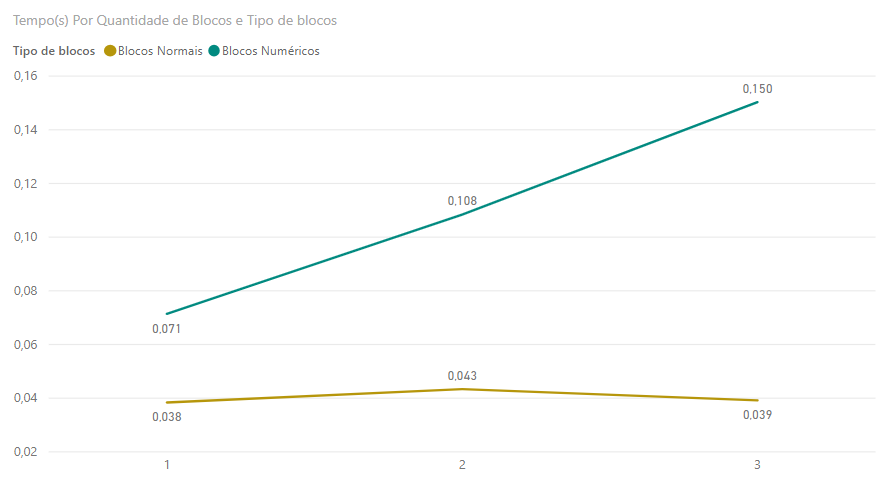
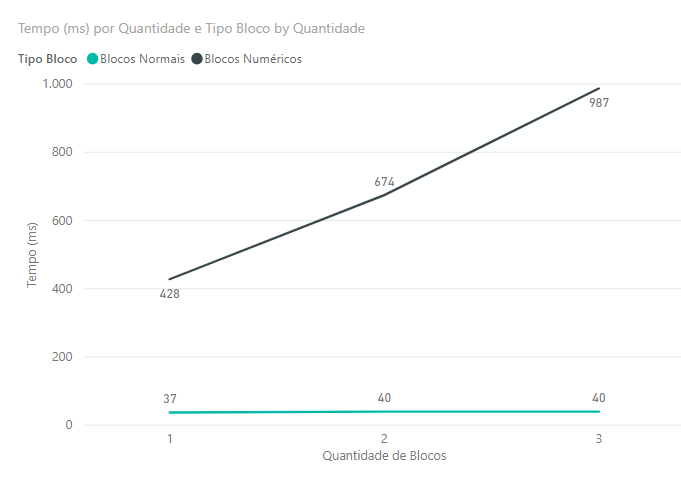
[upt] subindo todas correções cap 5/6

diff --git a/Textos/Cap5.tex b/Textos/Cap5.tex
@@ -1,5 +1,5 @@
 \chapter{Testes e Resultados}\label{cap:testes_e_resultados}
-Neste capítulo são descritos os testes de desenvolvimento e performance do aplicativo, além disso, contém uma descrição dos resultados dos testes práticos com crianças.
+Neste capítulo são descritos os testes de desenvolvimento e performance do aplicativo. Além disso, contém também uma descrição dos resultados dos testes práticos com crianças.
 
 \section{Testes de Desenvolvimento}
 
@@ -8,7 +8,7 @@ Nesta seção são detalhados os testes de desenvolvimento e performance do soft
 
 \subsection{\textbf{Teste de Tempo de Resposta do Reconhecimento}}
 
-Após o término do desenvolvimento do protótipo, foram realizados testes para mensurar o tempo médio de resposta do algoritmo de reconhecimento por quantidade de blocos. A metodologia adotada para esse teste foi capturar uma amostra de imagens contendo 1 bloco, 2 blocos e 3 blocos, separados em blocos normais e númericos como ilustrado na Figura \ref{figura:ttr}. Por meio dessas imagens, foram realizadas 5 medições do tempo de resposta do algoritmo de reconhecimento por quantidade de blocos, isto é, 5 medições das imagens com apenas 1 bloco, 5 medições das imagens com 2 blocos e por fim 5 medições das imagens com 3 blocos. Após todos os valores coletados, foi calculada uma média simples por quantidade de blocos e por tipos de blocos a fim de diminuir possíveis eventualidades que afetassem o tempo de resposta. O objetivo deste teste é verificar se há diferença no tempo de resposta entre blocos normais e blocos numéricos, sendo que estes passam pela etapa de reconhecimento óptico de caracteres.
+Após o término do desenvolvimento do protótipo, foram realizados testes para mensurar o tempo médio de resposta do algoritmo de reconhecimento por quantidade de blocos. A metodologia adotada para esse teste foi capturar uma amostra de imagens contendo 1 bloco, 2 blocos e 3 blocos, separados em blocos normais e númericos como ilustrado na Figura \ref{figura:ttr}. Por meio dessas imagens, foram realizadas 50 medições do tempo de resposta do algoritmo de reconhecimento por quantidade de blocos, isto é, 50 medições das imagens com apenas 1 bloco, 50 medições das imagens com 2 blocos e por fim 50 medições das imagens com 3 blocos. Após todos os valores coletados, foi calculada uma média simples por quantidade de blocos e por tipo de bloco a fim de diminuir possíveis eventualidades que pudessem provocar alterações no tempo de resposta. O objetivo deste teste é verificar se há diferença no tempo de resposta entre blocos normais e blocos numéricos, sendo que estes passam pela etapa de reconhecimento óptico de caracteres.
 
 \begin{figure}[H]
     \caption{Exemplos de imagens para teste de tempo de resposta}
@@ -18,7 +18,7 @@ Após o término do desenvolvimento do protótipo, foram realizados testes para 
     \label{figura:ttr}
 \end{figure}
 
-Como pode-se ver na tabela \ref{table:tempo_resposta} e no gráfico ilustrado na Figura \ref{figura:ttr_grafico} que derivam do resultado do teste de tempos de resposta, existe uma diferença considerável no tempo de resposta entre blocos normais e blocos numéricos e essa diferença tende a crescer considerando o acréscimo de blocos. Pode-se notar também que o tempo de resposta dos blocos normais tende a se manter estável mesmo com a inserção de mais blocos normais. Porém, pode-se notar também que o tempo de resposta tende a aumentar consideravelmente com o acréscimo de blocos numéricos. 
+Como pode-se ver na tabela \ref{table:tempo_resposta} e no gráfico ilustrado na Figura \ref{figura:ttr_grafico} que derivam do resultado do teste de tempos de resposta, existe uma diferença considerável no tempo de resposta entre blocos normais e blocos numéricos e essa diferença tende a crescer considerando o acréscimo de blocos numéricos. Pode-se notar também que o tempo de resposta dos blocos normais tende a se manter estável mesmo com a inserção de mais blocos normais. Porém, pode-se notar também que o tempo de resposta tende a aumentar consideravelmente com o acréscimo de blocos numéricos. 
 
     \begin{table}[H]
         \centering
@@ -28,11 +28,11 @@ Como pode-se ver na tabela \ref{table:tempo_resposta} e no gráfico ilustrado na
          \hline
         Quantidade de Blocos & Blocos Normais & Blocos Numéricos \\
          \hline
-        1 & 38.4ms & 71.4ms \\
+        1 & 37.1ms & 427.7ms \\
          \hline
-        2 & 43.4ms & 108.4ms\\
+        2 & 39.8ms & 674.1ms\\
          \hline
-        3 & 39.2ms & 150.3ms\\    [0.5ex]    
+        3 & 39.7ms & 987.1ms\\    [0.5ex]    
          \hline
         
         \end{tabular}
@@ -51,7 +51,7 @@ Como pode-se ver na tabela \ref{table:tempo_resposta} e no gráfico ilustrado na
 
 Após o término do desenvolvimento do protótipo, foram realizados testes para mensurar a taxa de acerto do aplicativo em relação ao reconhecimento dos blocos. A metodologia adotada para esse teste foi capturar uma amostra de imagens de uma mesma sequência de blocos, das quais uma metade dessas imagens são capturadas com iluminação adequada e seguindo as recomendações do aplicativo jogo, e a outra metade das imagens capturadas com iluminação inadequada e sem seguir as recomendações de captura do aplicativo jogo. E, por meio dessas imagens, calcular as taxas de acerto para os dois tipos de imagens com o objetivo de verificar e mensurar a importância de usar o aplicativo jogo em um ambiente iluminado adequadamente e seguindo as recomendações do aplicativo jogo em relação à captura das imagens. Uma imagem considerada iluminada adequadamente é uma imagem que está sob  iluminação semelhante a iluminação utilizada para fazer a calibração do algoritmo de reconhecimento, e recomenda-se que a calibração seja realizada em um ambiente iluminado uniformemente com luz branca. 
 
-Para o teste de taxa de acerto, foi coletado uma amostra de 20 imagens com a sequência andar, andar, esperar, virar e andar. Das 20 imagens, 10 imagens foram coletadas sob iluminação semelhante à utilizada na calibração do algoritmo e seguindo a orientação de tamanho sugerida na tela de captura de imagem do aplicativo jogo, como ilustrado na Figura \ref{figura:tta_boa}. As outras 10 imagens, da mesma sequência, foram coletadas sob iluminação diferente da utilizada para calibração, com distâncias diferentes das recomendadas pelo aplicativo jogo e sob trepidações no momento da captura, ou seja, imagens borradas, como ilustrado na Figura \ref{figura:tta_ruim}.
+Para o teste de taxa de acerto, foi coletado uma amostra de 200 imagens com blocos andar, esperar, virar e loop. Das 200 imagens, 100 imagens foram coletadas sob iluminação semelhante à utilizada na calibração do algoritmo e seguindo a orientação de tamanho sugerida na tela de captura de imagem do aplicativo jogo, como ilustrado na Figura \ref{figura:tta_boa}. As outras 100 imagens, foram coletadas sob iluminação diferente da utilizada para calibração, com distâncias diferentes das recomendadas pelo aplicativo jogo e sob trepidações no momento da captura, ou seja, imagens borradas, como ilustrado na Figura \ref{figura:tta_ruim}.
 
 \begin{figure}[H]
     \caption{Imagens adequadas para teste taxa de acerto}
@@ -69,7 +69,7 @@ Para o teste de taxa de acerto, foi coletado uma amostra de 20 imagens com a seq
     \label{figura:tta_ruim}
 \end{figure}
 
-O resultado do teste foi, das 10 imagens iluminadas adequadamente e capturadas sob as recomendações do aplicativo jogo, o algoritmo de reconhecimento acertou 9 das sequências dessas imagens, portanto obteve uma taxa de acerto de 90\%. Porém, das 10 imagens iluminadas inadequadamente e que não foram capturadas seguindo as recomendações do aplicativo, o algoritmo acertou apenas 5 sequências das 10 imagens, ou seja, obteve uma taxa de acerto de 50\%. Portanto, pode-se concluir que é fundamental que o aplicativo jogo seja utilizado em um ambiente adequadamente iluminado e seguindo as recomendações de captura de imagem a fim de garantir um bom funcionamento do aplicativo jogo.
+O resultado do teste foi, das 100 imagens iluminadas adequadamente e capturadas sob as recomendações do aplicativo jogo, o algoritmo de reconhecimento acertou 92 das sequências dessas imagens, portanto obteve uma taxa de acerto de 92\%. Porém, das 100 imagens iluminadas inadequadamente e que não foram capturadas seguindo as recomendações do aplicativo, o algoritmo acertou apenas 58 sequências das 100 imagens, ou seja, obteve uma taxa de acerto de 58\%. Portanto, pode-se concluir que é fundamental que o aplicativo jogo seja utilizado em um ambiente adequadamente iluminado e seguindo as recomendações de captura de imagem a fim de garantir um bom funcionamento do aplicativo jogo.
 
 
 \section{Testes Práticos}
